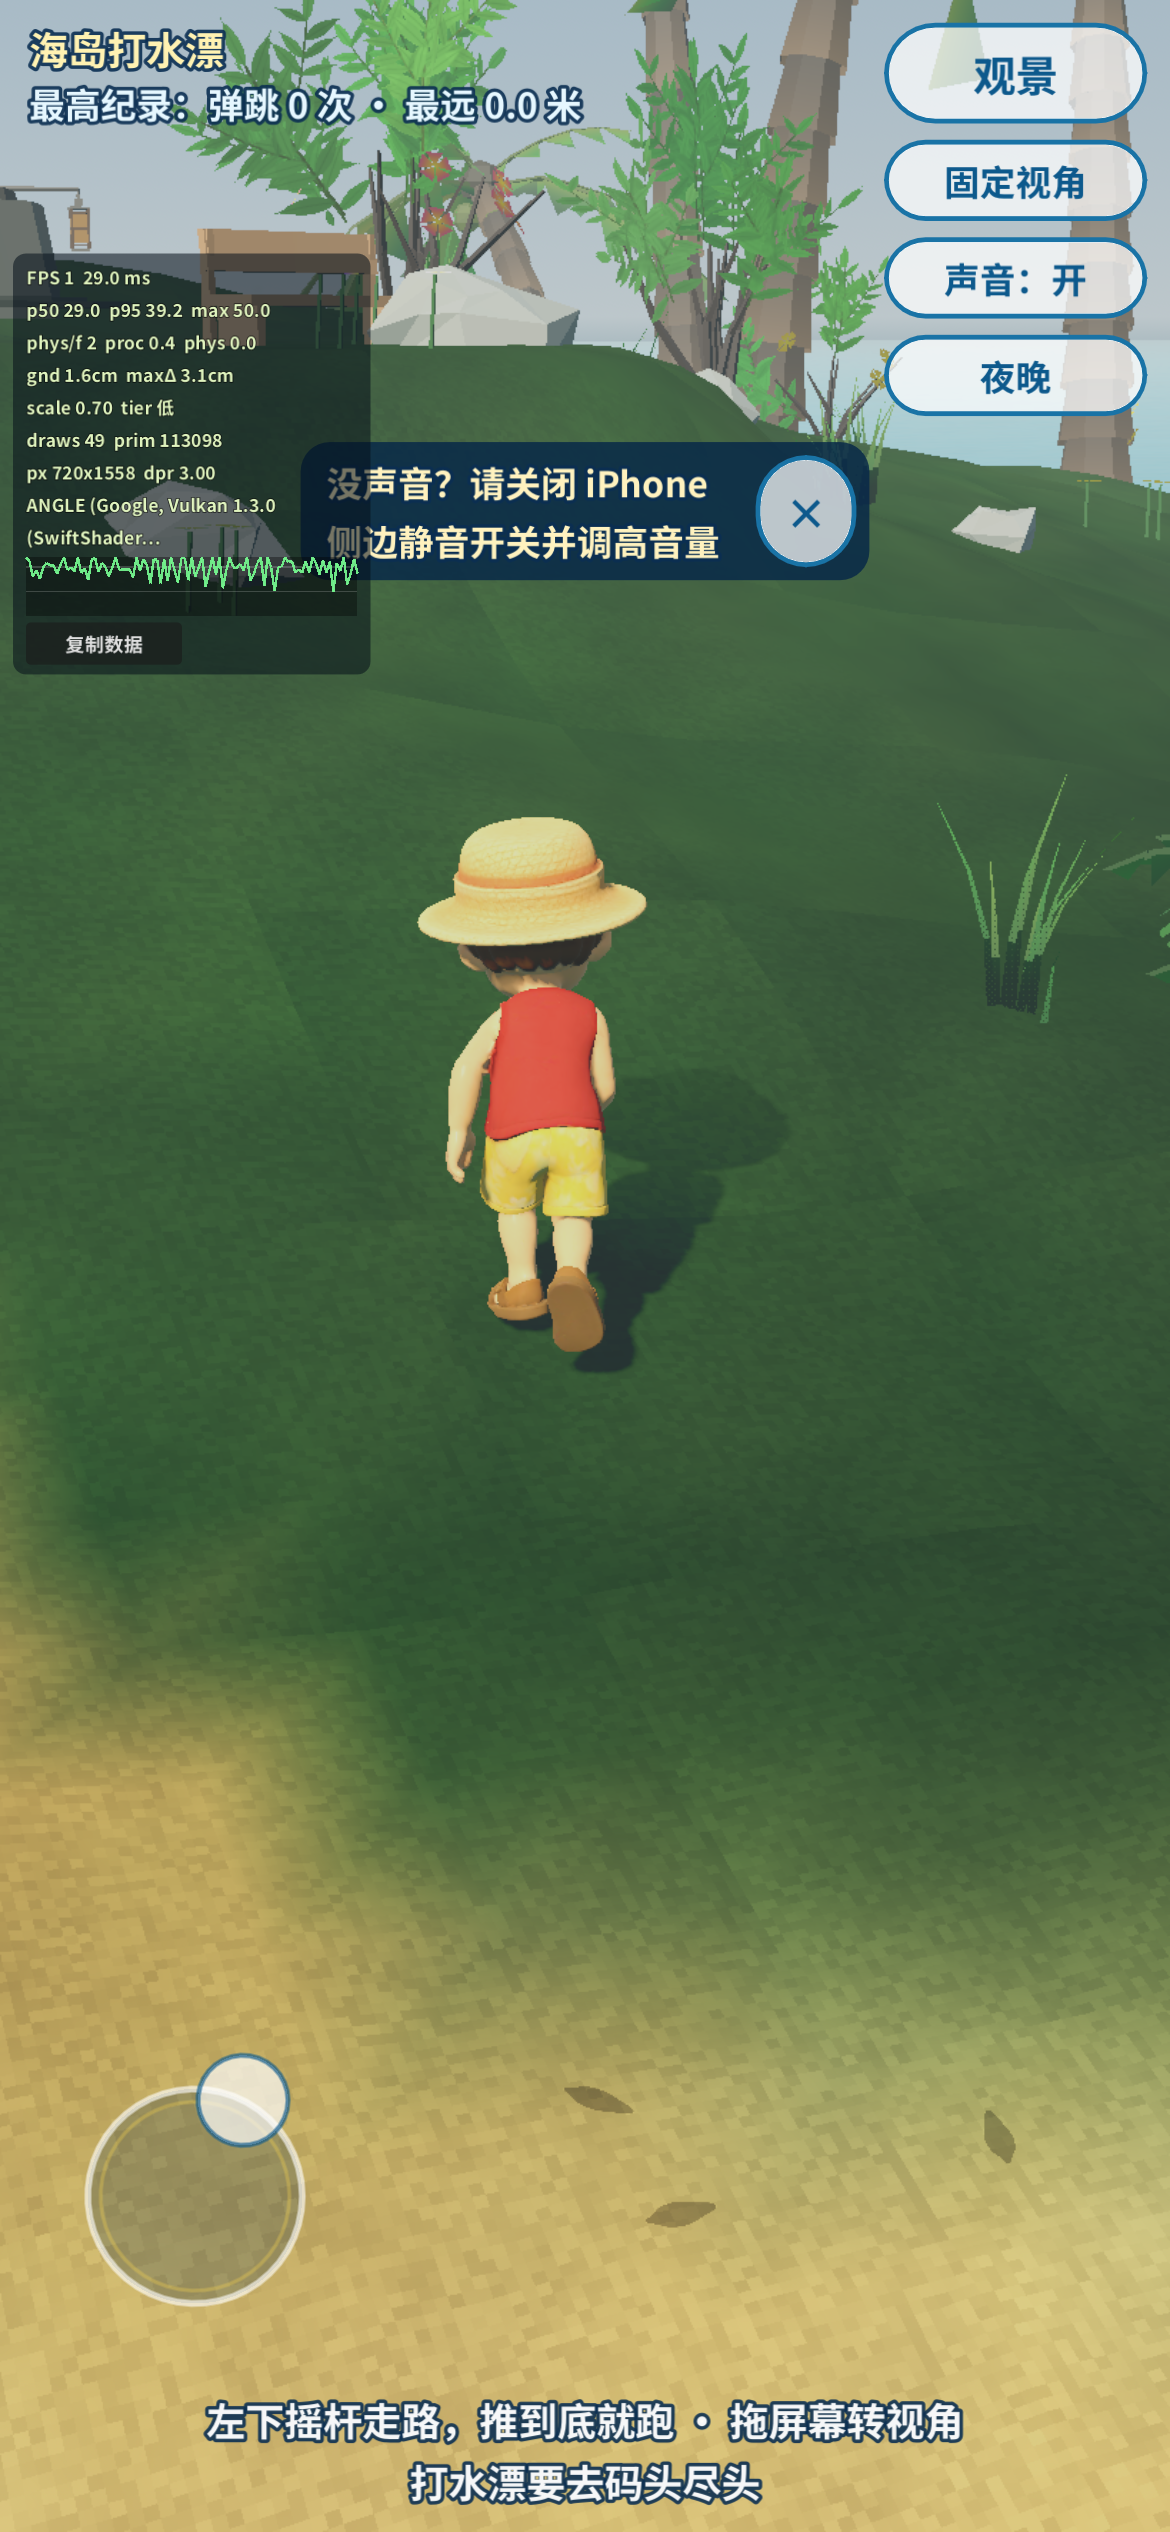
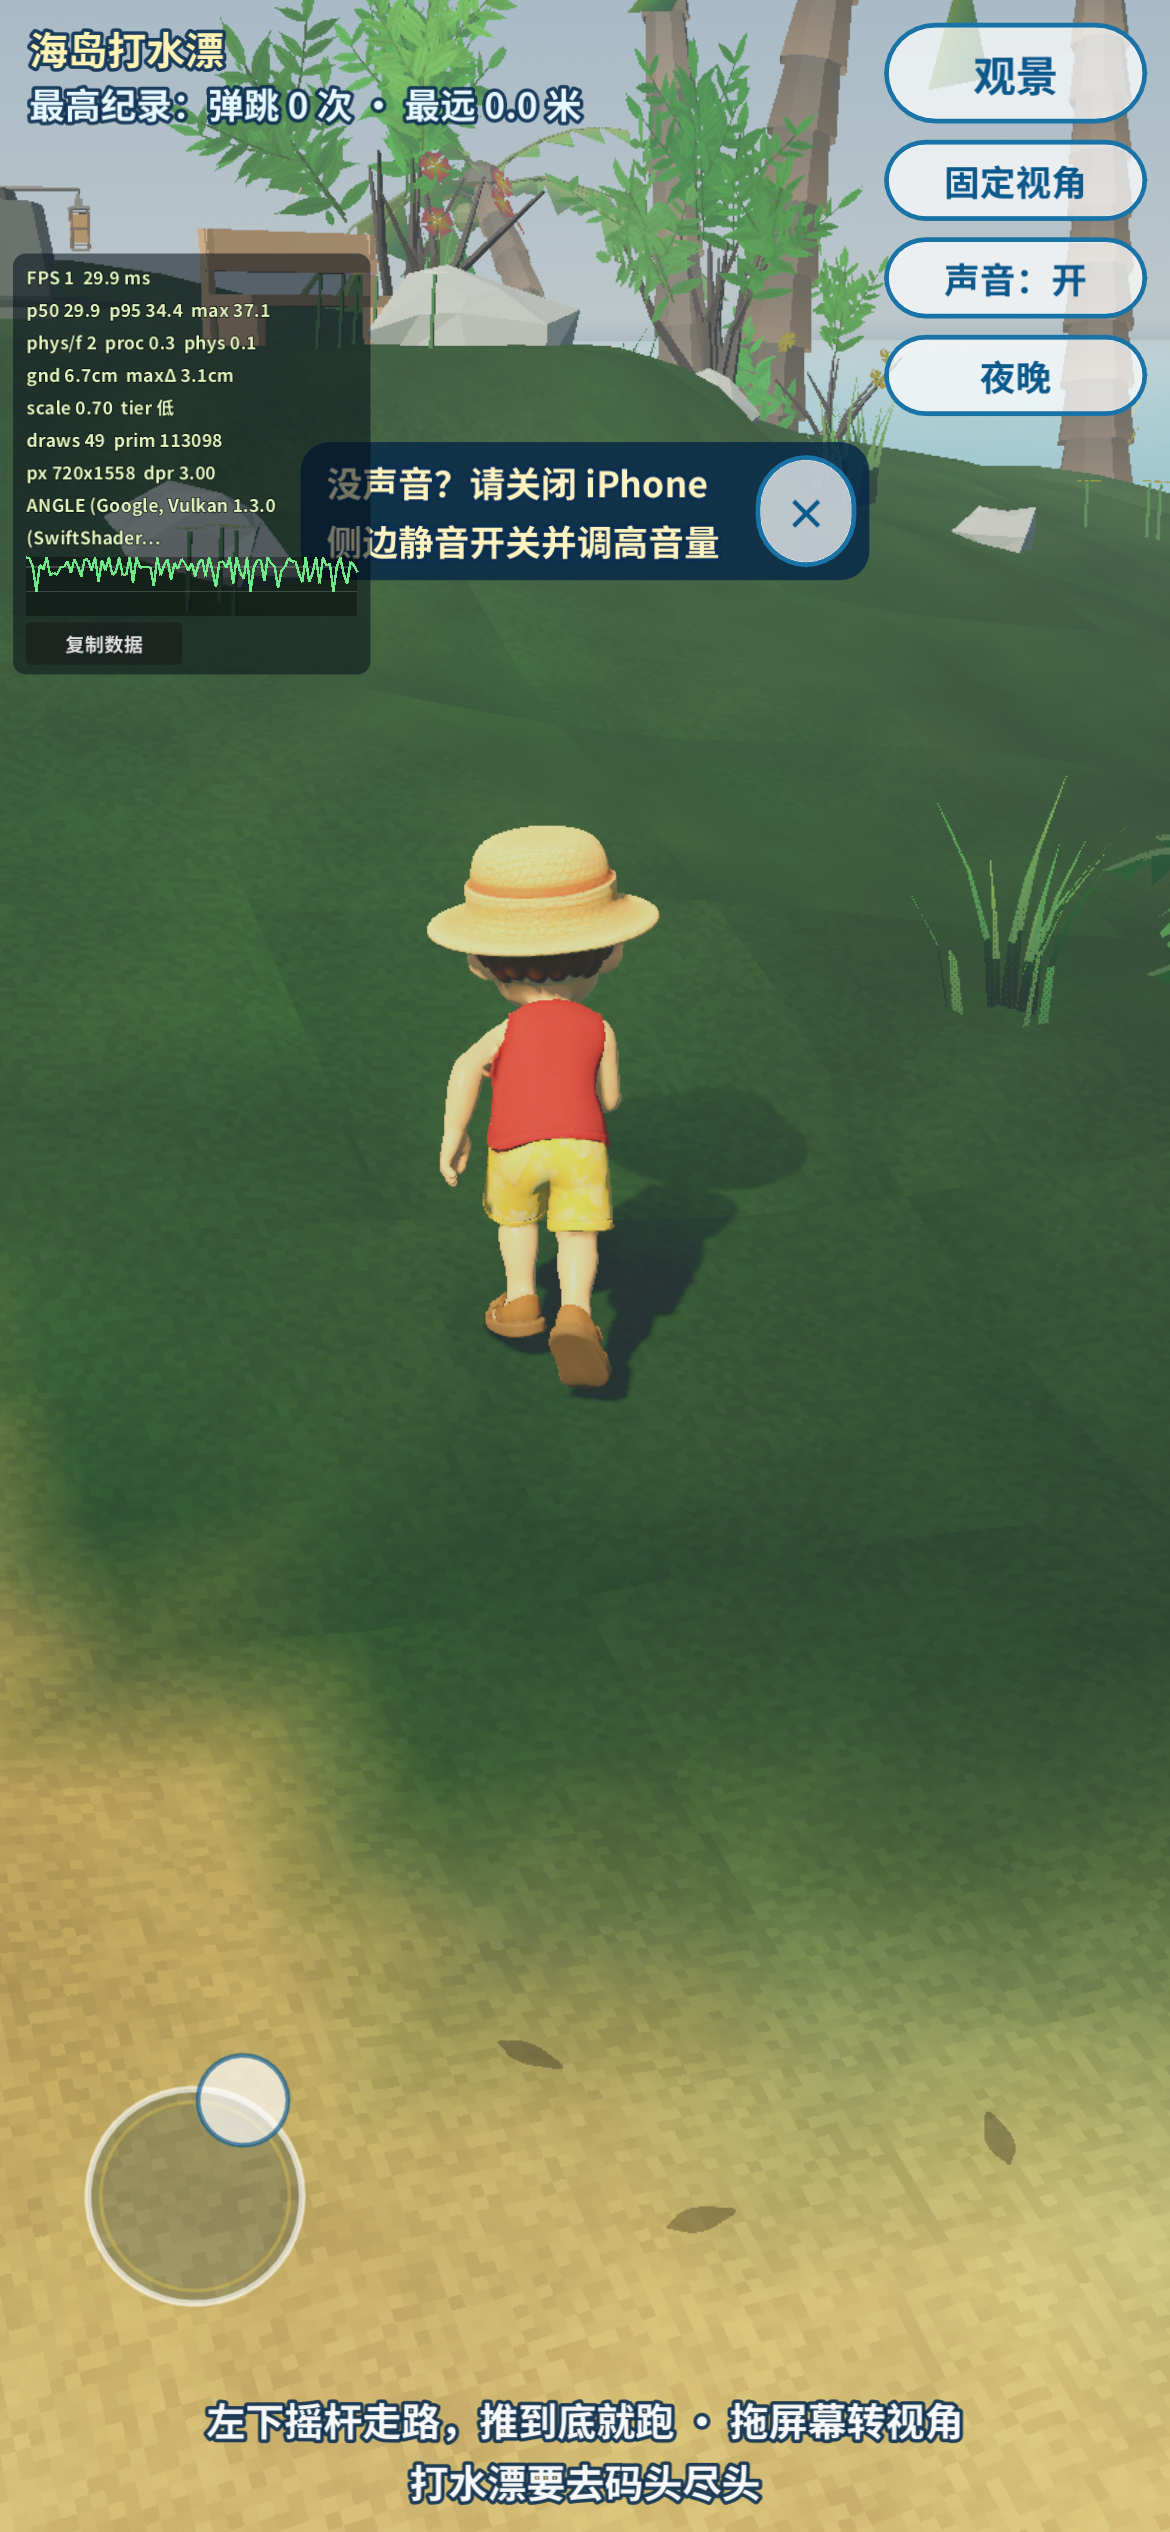
Open the explore camera within 0.8 s after the stick lifts.
The walk orbit is unchanged while the finger is down. After a real release the arm stops pulling in, the step clamp opens, and the distance eases out to the wide frame. drag39.py still shows both sandals on the sand and on the grass rise.

diff --git a/docs/game_v39/game_v39.html b/docs/game_v39/game_v39.html
@@ -77,7 +77,7 @@ body {
 
 		<script src="game_v39.js"></script>
 		<script>
-const GODOT_CONFIG = {"args":[],"canvasResizePolicy":2,"emscriptenPoolSize":8,"ensureCrossOriginIsolationHeaders":true,"executable":"game_v39","experimentalVK":false,"fileSizes":{"game_v39.pck":11251316,"game_v39.wasm":39514754},"focusCanvas":true,"gdextensionLibs":[],"godotPoolSize":4};
+const GODOT_CONFIG = {"args":[],"canvasResizePolicy":2,"emscriptenPoolSize":8,"ensureCrossOriginIsolationHeaders":true,"executable":"game_v39","experimentalVK":false,"fileSizes":{"game_v39.pck":11252196,"game_v39.wasm":39514754},"focusCanvas":true,"gdextensionLibs":[],"godotPoolSize":4};
 const GODOT_THREADS_ENABLED = false;
 // Single-threaded build: never install COOP/COEP service worker (can hang iOS loads).
 GODOT_CONFIG.ensureCrossOriginIsolationHeaders = false;
